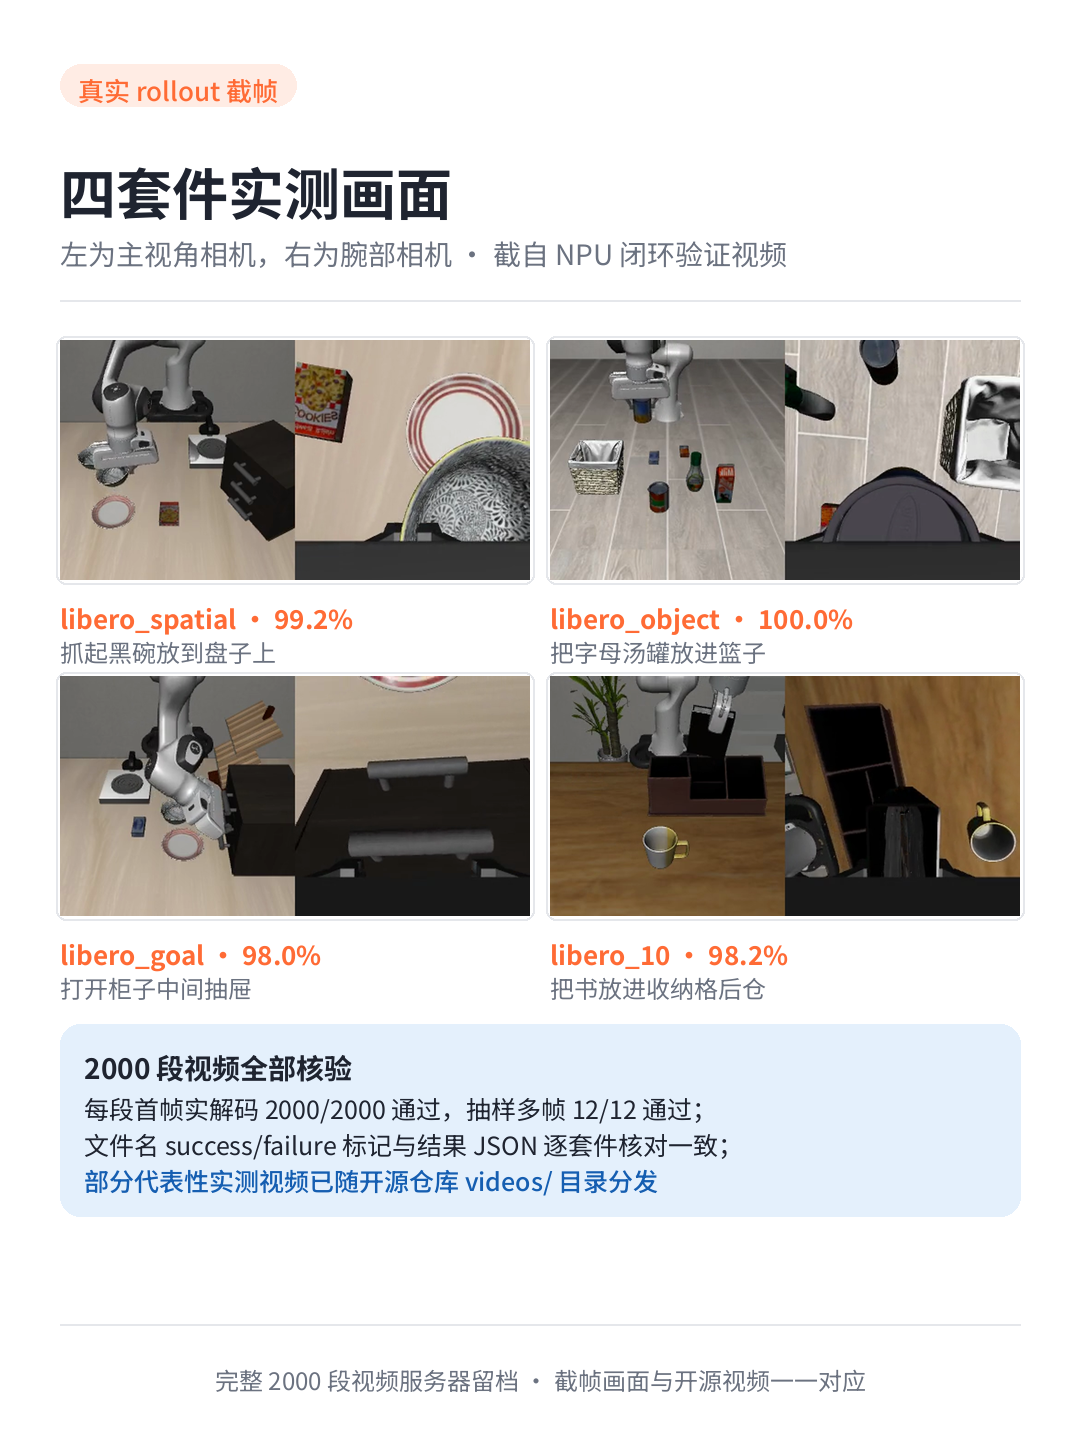
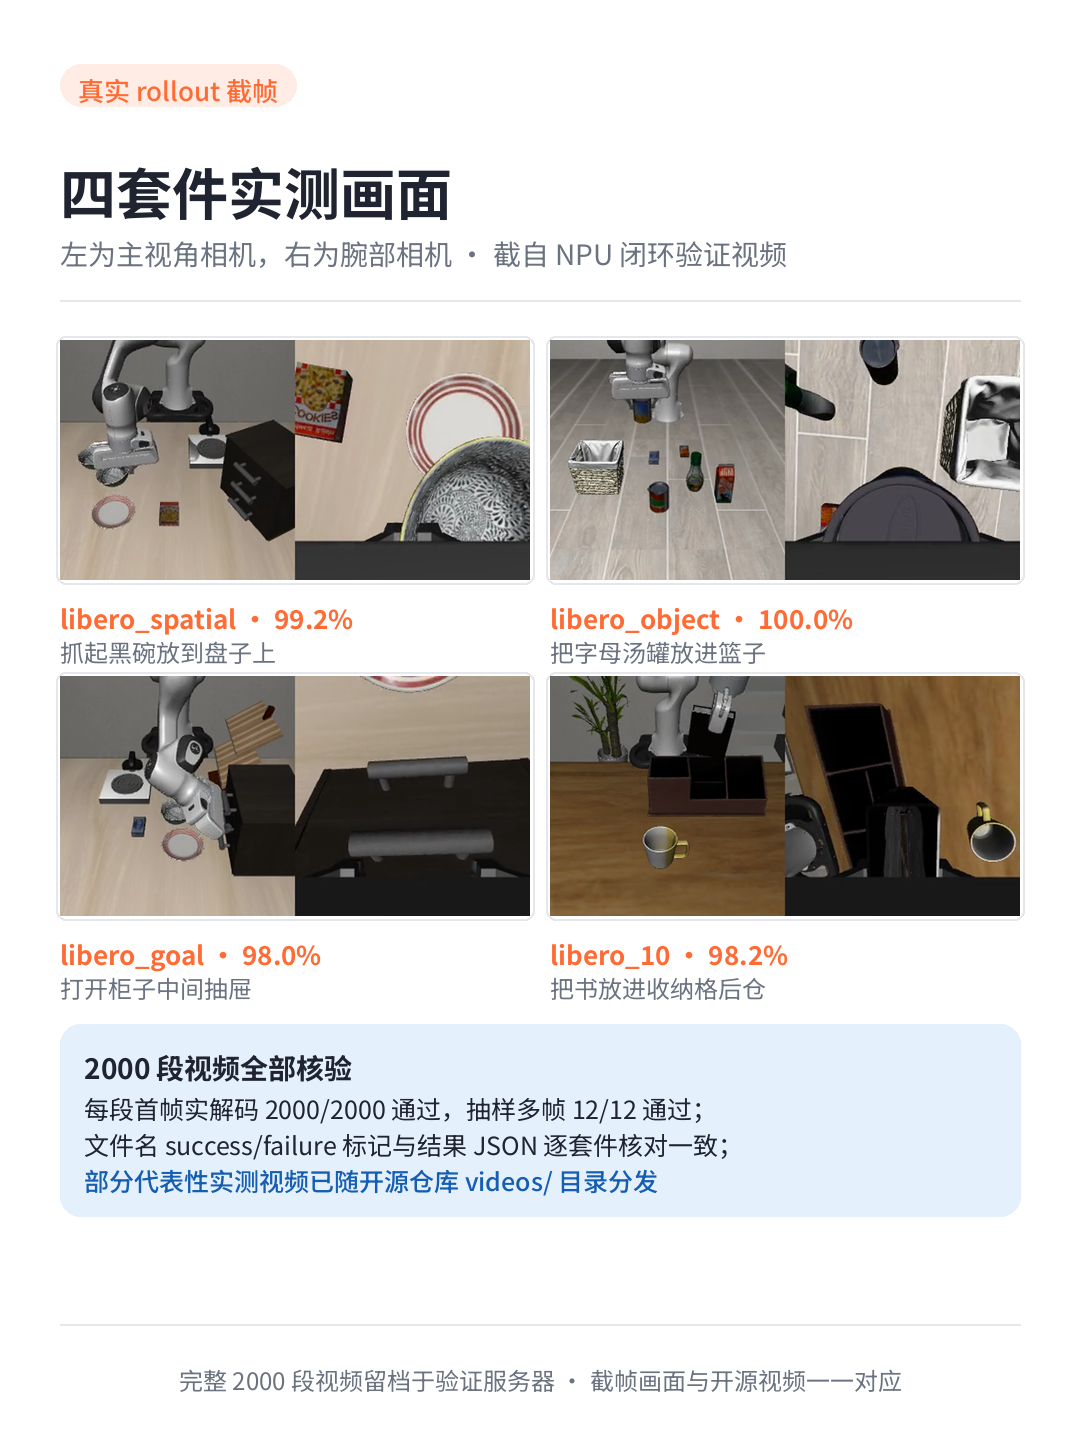
Use verification-server wording instead of local-machine references

Changed region(s): [[0.1528, 0.9375, 0.825, 0.9688]]

diff --git a/videos/README.md b/videos/README.md
@@ -1,6 +1,6 @@
 # 实测视频样例
 
-以下 9 段视频截选自本机 2000 段全量 rollout 留档，作为 NPU 闭环验证的直接证据分发。每段画面左侧为主视角相机、右侧为腕部相机（256×256×2，30fps）。其中前 4 段与 `xiaohongshu/images/03_rollouts.png` 的截帧画面一一对应。
+以下 9 段视频截选自验证服务器上的 2000 段全量 rollout 留档，作为 NPU 闭环验证的直接证据分发。每段画面左侧为主视角相机、右侧为腕部相机（256×256×2，30fps）。其中前 4 段与 `xiaohongshu/images/03_rollouts.png` 的截帧画面一一对应。
 
 | 文件 | Suite | 结果 | 任务 |
 |---|---|---|---|
@@ -14,4 +14,4 @@
 | `libero_10_moka_pots_stove_ep0_success.mp4` | libero_10 | 成功 | put both moka pots on the stove |
 | `libero_goal_open_top_drawer_bowl_ep20_failure.mp4` | libero_goal | 失败 | open the top drawer and put the bowl inside（23 次失手之一，如实收录） |
 
-完整 2000 段视频（约 400MB）因体积留档于运行机器；文件名 success/failure 标记已与 `results/summary.json` 逐套件核对一致。
+完整 2000 段视频（约 400MB）因体积留档于验证服务器；文件名 success/failure 标记已与 `results/summary.json` 逐套件核对一致。

diff --git a/README.md b/README.md
@@ -64,7 +64,7 @@ bash scripts/run_g05_full_libero.sh
 
 **本仓库直接分发 9 段代表性实测视频**（[`videos/`](videos/)，约 2MB）：四套件各 2 段成功案例（其中 4 段与 `xiaohongshu/images/03_rollouts.png` 截帧一一对应），外加 1 段失败案例如实收录，清单见 [`videos/README.md`](videos/README.md)。
 
-完整 2000 段 rollout 视频在本机留档：每段经 ffmpeg 实际解码首帧核验（2000/2000 通过），每套件抽首/中/尾三段多帧解码（12/12 通过），文件名 success/failure 标记与结果 JSON 逐套件核对一致。
+完整 2000 段 rollout 视频留档于验证服务器：每段经 ffmpeg 实际解码首帧核验（2000/2000 通过），每套件抽首/中/尾三段多帧解码（12/12 通过），文件名 success/failure 标记与结果 JSON 逐套件核对一致。
 
 ## 仓库结构
 

diff --git a/models/g05/README.md b/models/g05/README.md
@@ -18,4 +18,4 @@ git apply --check models/g05/g05_npu.patch
 git apply models/g05/g05_npu.patch
 ```
 
-CUDA 依赖回退均为官方代码自带实现：ViT 注意力 → SDPA；Gated DeltaNet → 纯 PyTorch chunk/recurrent；ActionCodec fp32 → SDPA。补丁不含权重、令牌或本机路径。
+CUDA 依赖回退均为官方代码自带实现：ViT 注意力 → SDPA；Gated DeltaNet → 纯 PyTorch chunk/recurrent；ActionCodec fp32 → SDPA。补丁不含权重、令牌或任何绝对路径。

diff --git a/docs/EVAL_PROTOCOL.md b/docs/EVAL_PROTOCOL.md
@@ -49,7 +49,7 @@ results/full_libero/<YYYYmmdd_HHMMSS_PID>/
     └── videos/*.mp4          # 每 trial 一段，文件名含任务描述/episode/success 标记
 ```
 
-原始运行产物（JSON/日志/视频）留档于运行机器；本仓库发布脱敏汇总 `results/summary.json`。
+原始运行产物（JSON/日志/视频）留档于验证服务器；本仓库发布脱敏汇总 `results/summary.json`。
 
 ## 四、结果记录与对比规范
 
